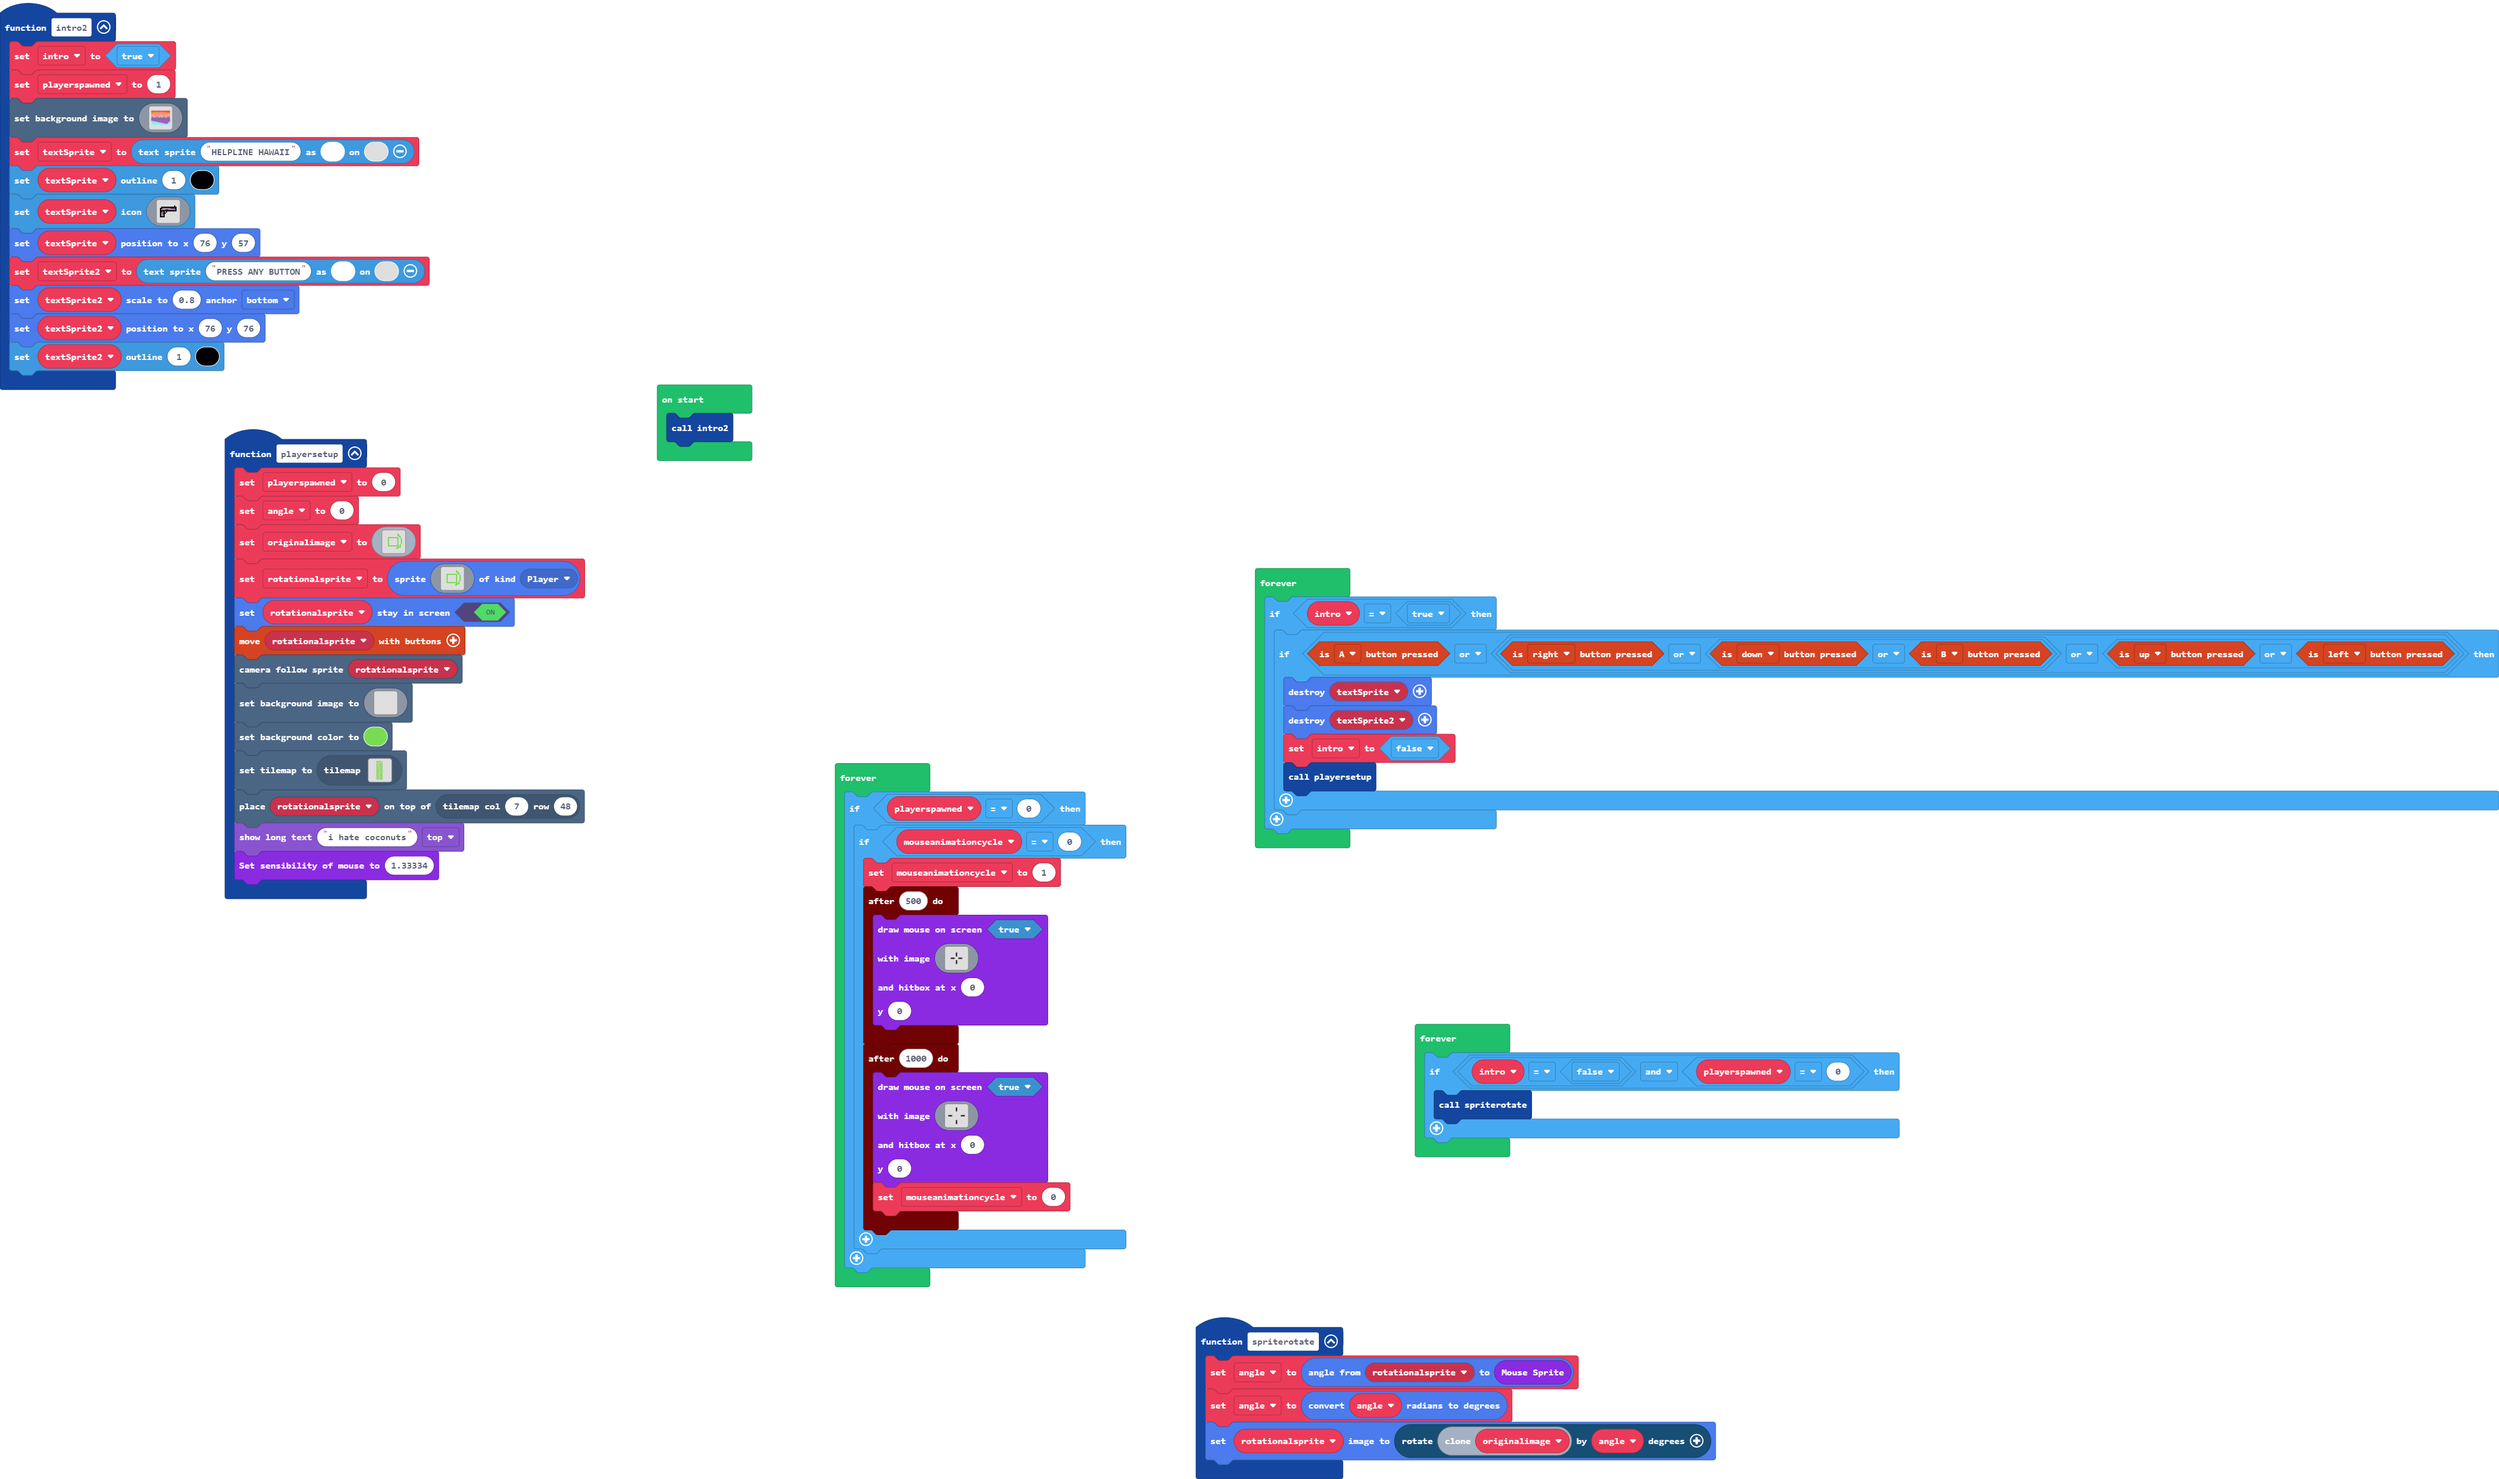
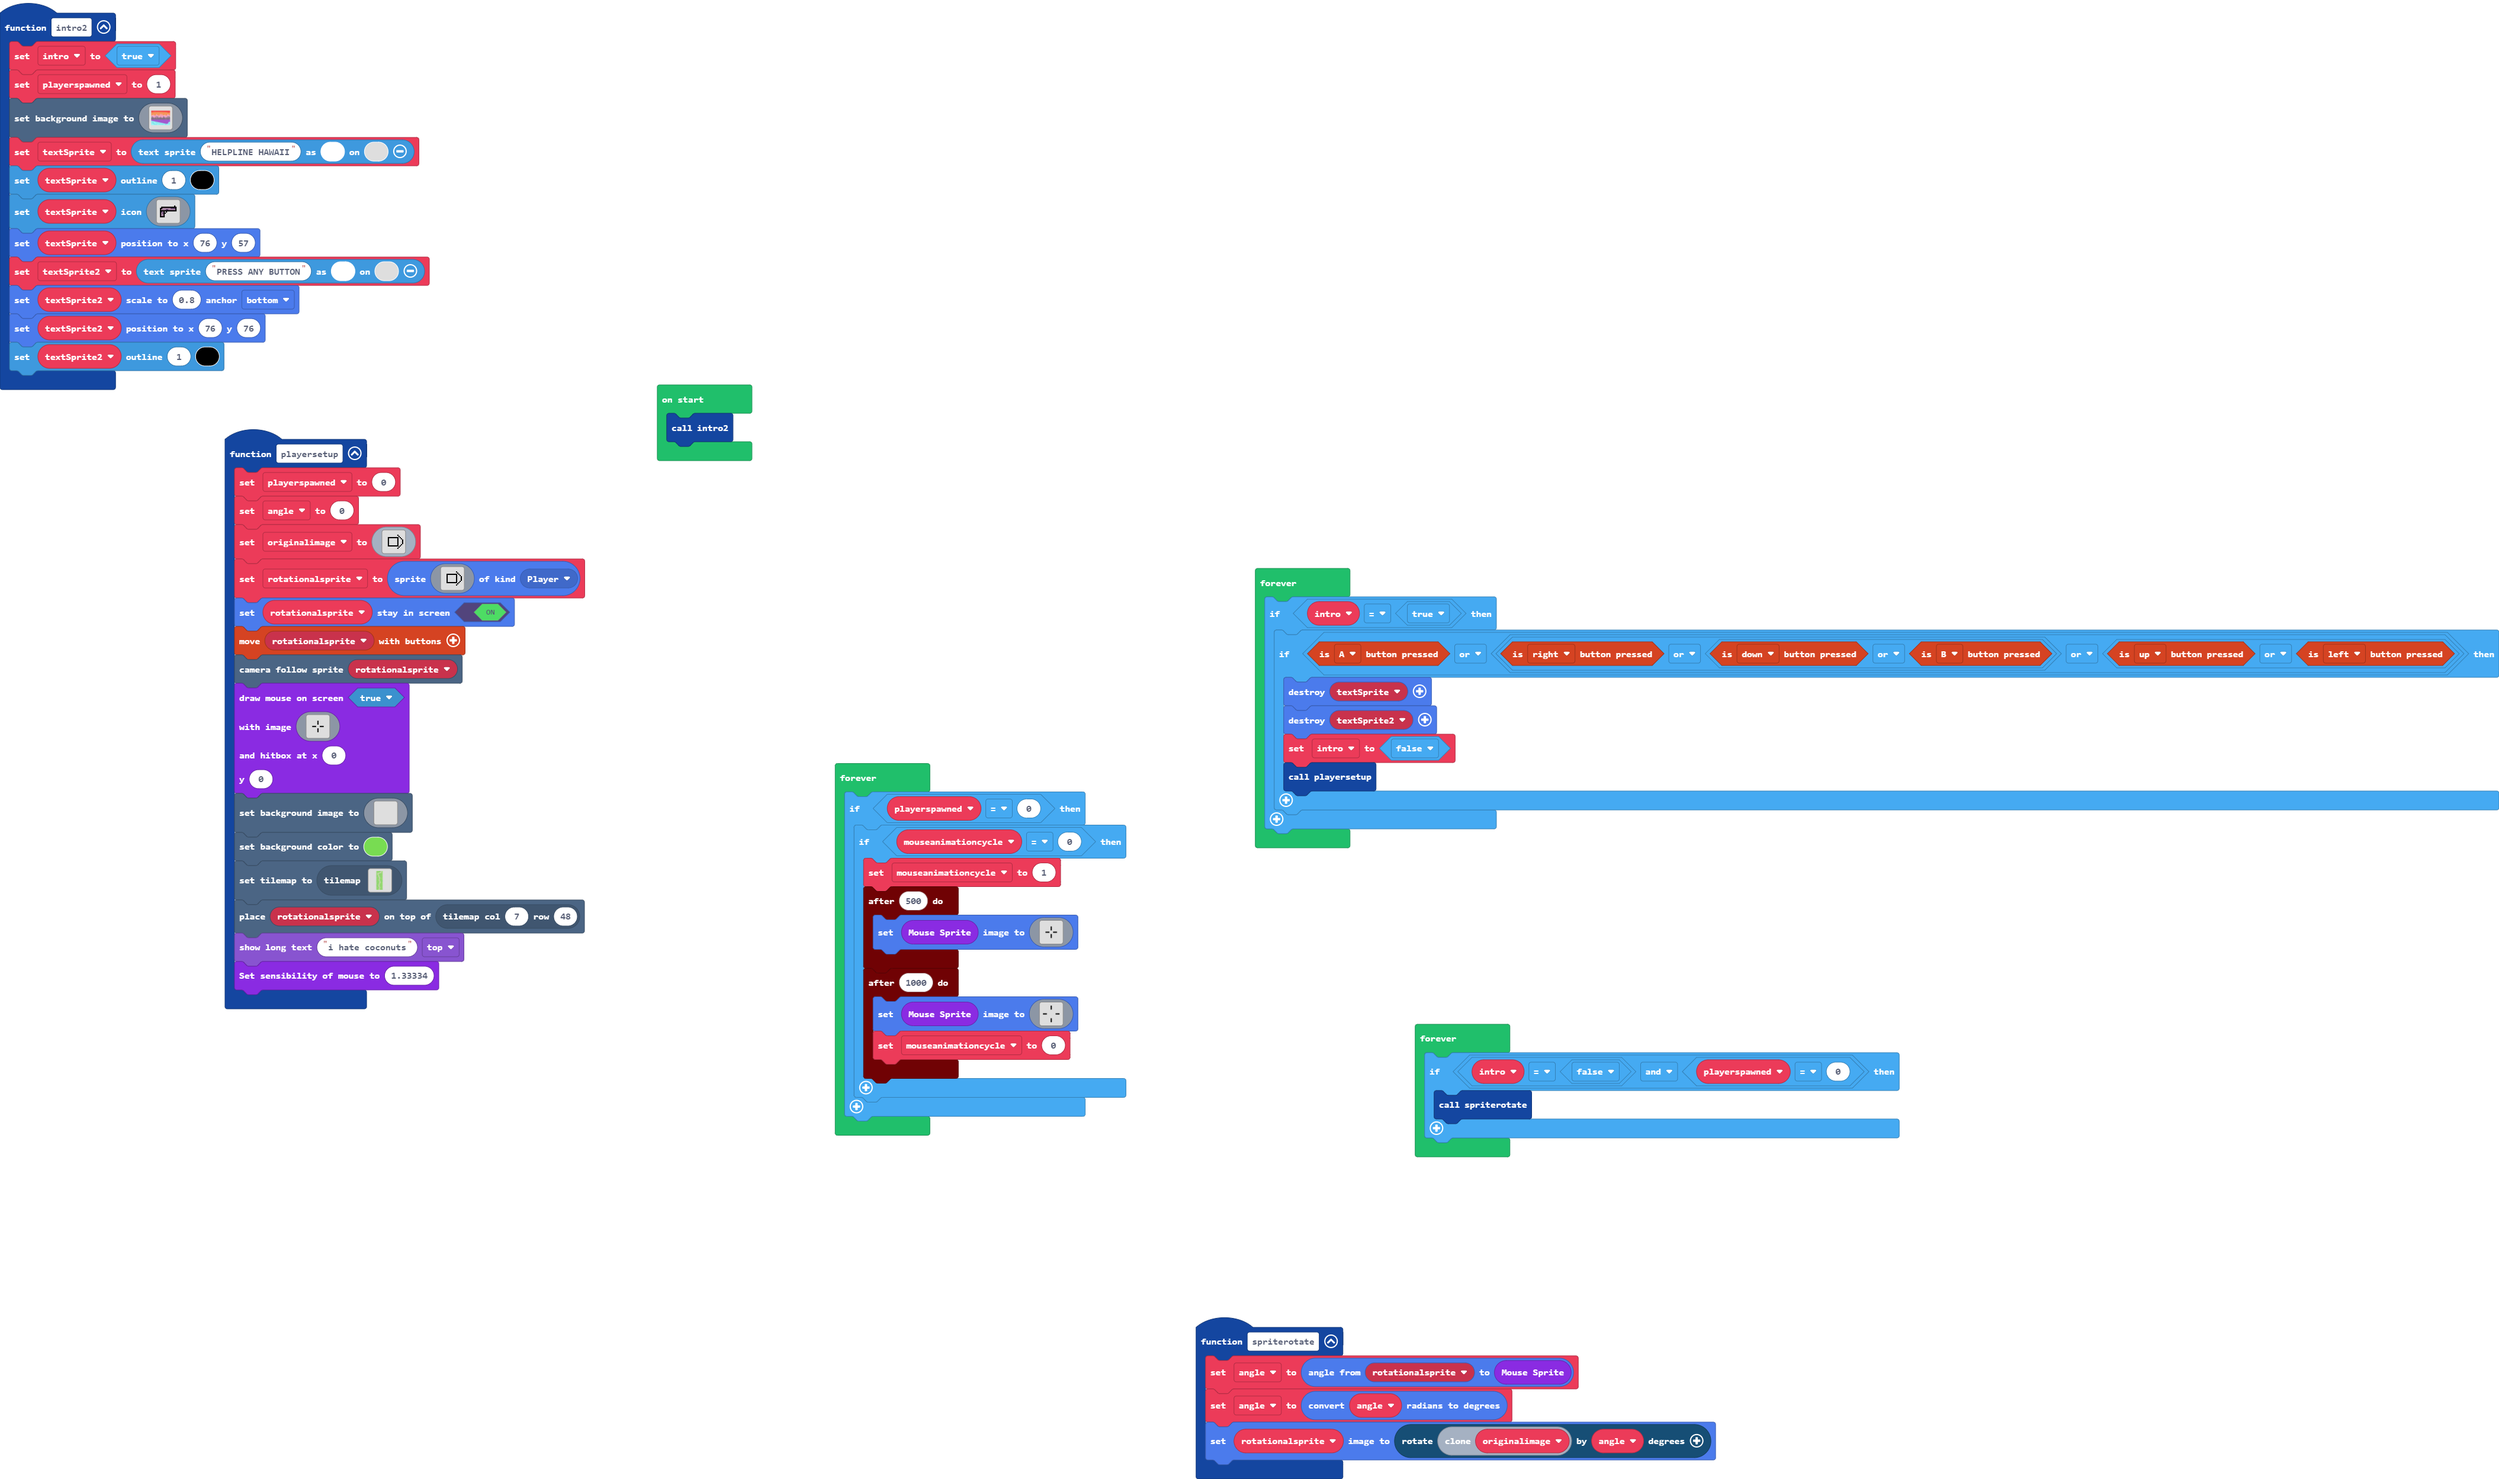
fixed mouse anims spazzing out sprite, made it more efficient

Changed region(s): [[0.3104, 0.5933, 0.4656, 0.8743], [0.0621, 0.4371, 0.2483, 0.6869]]

diff --git a/main.ts b/main.ts
@@ -162,6 +162,28 @@ function playersetup () {
     rotationalsprite.setStayInScreen(true)
     controller.moveSprite(rotationalsprite)
     scene.cameraFollowSprite(rotationalsprite)
+    Mouse.DrawMouse(
+    true,
+    img`
+        . . . . . . . . . . . . . . . 
+        . . . . . . . . . . . . . . . 
+        . . . . . . . . . . . . . . . 
+        . . . . . . . f . . . . . . . 
+        . . . . . . . f . . . . . . . 
+        . . . . . . . f . . . . . . . 
+        . . . . . . . . . . . . . . . 
+        . . . f f f . . . f f f . . . 
+        . . . . . . . . . . . . . . . 
+        . . . . . . . f . . . . . . . 
+        . . . . . . . f . . . . . . . 
+        . . . . . . . f . . . . . . . 
+        . . . . . . . . . . . . . . . 
+        . . . . . . . . . . . . . . . 
+        . . . . . . . . . . . . . . . 
+        `,
+    0,
+    0
+    )
     scene.setBackgroundImage(img`
         ................................................................................................................................................................
         ................................................................................................................................................................
@@ -314,9 +336,7 @@ forever(function () {
         if (mouseanimationcycle == 0) {
             mouseanimationcycle = 1
             timer.after(500, function () {
-                Mouse.DrawMouse(
-                true,
-                img`
+                Mouse.mouseSprite().setImage(img`
                     . . . . . . . . . . . . . . . 
                     . . . . . . . . . . . . . . . 
                     . . . . . . . . . . . . . . . 
@@ -332,15 +352,10 @@ forever(function () {
                     . . . . . . . . . . . . . . . 
                     . . . . . . . . . . . . . . . 
                     . . . . . . . . . . . . . . . 
-                    `,
-                0,
-                0
-                )
+                    `)
             })
             timer.after(1000, function () {
-                Mouse.DrawMouse(
-                true,
-                img`
+                Mouse.mouseSprite().setImage(img`
                     . . . . . . . . . . . . . . . 
                     . . . . . . . f . . . . . . . 
                     . . . . . . . f . . . . . . . 
@@ -356,10 +371,7 @@ forever(function () {
                     . . . . . . . f . . . . . . . 
                     . . . . . . . f . . . . . . . 
                     . . . . . . . . . . . . . . . 
-                    `,
-                0,
-                0
-                )
+                    `)
                 mouseanimationcycle = 0
             })
         }

diff --git a/images.g.ts b/images.g.ts
@@ -6,19 +6,19 @@ namespace myImages {
             case "image1":
             case "myImage":return img`
 . . . . . . . . . . . . . . . . 
-. . . . . . . . . . . 7 . . . . 
-. . . . . . . . . . . 7 7 . . . 
-. . . . . . . . . . . . 7 7 . . 
-. . . 7 7 7 7 7 7 7 7 7 . 7 . . 
-. . . 7 . . . . . . . 7 . . 7 . 
-. . . 7 . . . . . . . 7 . . 7 . 
-. . . 7 . . . . . . . 7 . . 7 . 
-. . . 7 . . . . . . . 7 . . 7 . 
-. . . 7 . . . . . . . 7 . . 7 . 
-. . . 7 . . . . . . . 7 . 7 . . 
-. . . 7 7 7 7 7 7 7 7 7 . 7 . . 
-. . . . . . . . . . . 7 7 7 . . 
-. . . . . . . . . . 7 7 . . . . 
+. . . . . . . . . . . . . . . . 
+. . . . . . . . . . . f . . . . 
+. . . . . . . . . . . . f . . . 
+. . . f f f f f f f f f . f . . 
+. . . f . . . . . . . f . . f . 
+. . . f . . . . . . . f . . . f 
+. . . f . . . . . . . f . . . f 
+. . . f . . . . . . . f . . . f 
+. . . f . . . . . . . f . . . f 
+. . . f . . . . . . . f . . f . 
+. . . f f f f f f f f f . f . . 
+. . . . . . . . . . . . f . . . 
+. . . . . . . . . . . f . . . . 
 . . . . . . . . . . . . . . . . 
 . . . . . . . . . . . . . . . . 
 `;
